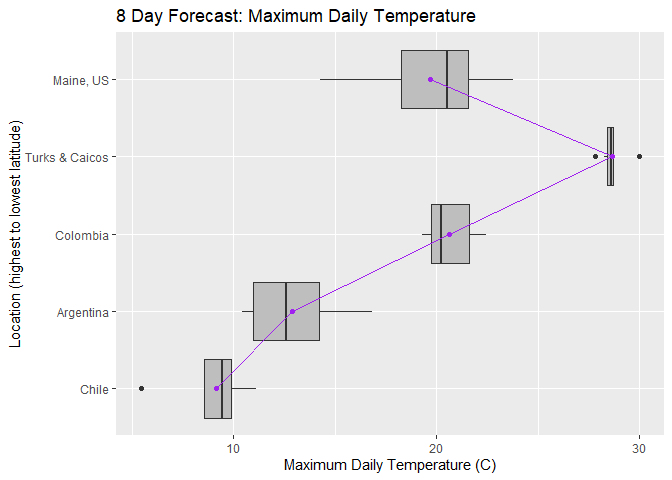
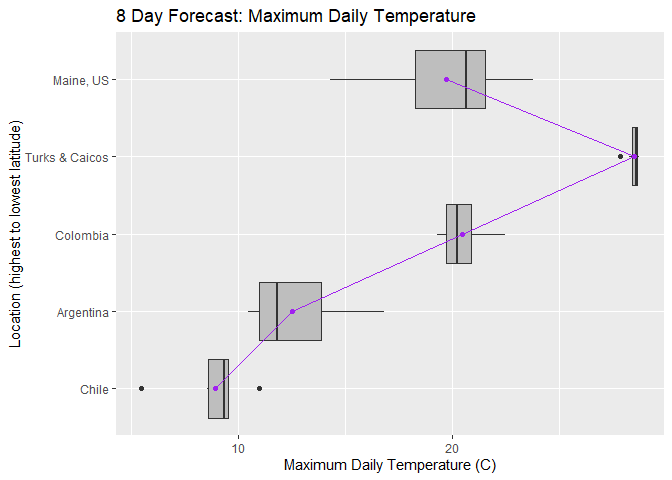
change size of scatter plot points

diff --git a/README.md b/README.md
@@ -1,4 +1,4 @@
-How to Access an API with an Example
+How to Access an API with RStudio
 ================
 Autumn Biggie
 10/3/2021
@@ -141,7 +141,7 @@ Maine.day
     ## 7 1634054400 1634035740 1634075955 1634062320 1634093100
     ## 8 1634140800 1634122215 1634162251 1634151780 1634183700
     ##   moon_phase temp.day temp.min temp.max temp.night temp.eve
-    ## 1       0.00    20.28     8.15    20.97      11.39    19.08
+    ## 1       0.00    20.28     8.15    21.21      11.39    17.64
     ## 2       0.05    20.74    10.10    21.70      11.85    15.33
     ## 3       0.08    20.94    10.19    21.51      12.06    13.24
     ## 4       0.12    13.13     5.57    14.29       5.95    11.59
@@ -150,7 +150,7 @@ Maine.day
     ## 7       0.25    18.57    11.40    20.13      14.01    17.54
     ## 8       0.27    21.71    14.65    23.80      16.05    19.63
     ##   temp.morn feels_like.day feels_like.night feels_like.eve
-    ## 1      8.15          19.72            10.99          18.98
+    ## 1      8.15          19.72            10.99          17.50
     ## 2     10.20          20.36            11.57          15.16
     ## 3     10.19          20.50            11.04          12.71
     ## 4      6.05          11.99             5.95          10.50
@@ -245,7 +245,7 @@ Maine.day1
     ## 7       0.25     1015       72     13.16       2.62      205
     ## 8       0.27     1011       78     17.61       4.02       60
     ##   wind_gust clouds  pop mintemp maxtemp
-    ## 1      3.00      3 0.00    8.15   20.97
+    ## 1      3.00      3 0.00    8.15   21.21
     ## 2      2.82     30 0.00   10.10   21.70
     ## 3      9.81      7 0.00   10.19   21.51
     ## 4      6.77     33 0.00    5.57   14.29
@@ -385,7 +385,7 @@ weather
     ## 39 02:37:00       0.23      997       66      2.48
     ## 40 03:30:00       0.25      986       96      1.86
     ##    wind_speed wind_deg wind_gust clouds  pop mintemp maxtemp
-    ## 1        1.86      352      3.00      3 0.00    8.15   20.97
+    ## 1        1.86      352      3.00      3 0.00    8.15   21.21
     ## 2        1.96      208      2.82     30 0.00   10.10   21.70
     ## 3        5.14      104      9.81      7 0.00   10.19   21.51
     ## 4        3.30      129      6.77     33 0.00    5.57   14.29
@@ -393,7 +393,7 @@ weather
     ## 6        2.81      185      5.03     76 0.00    7.84   19.05
     ## 7        2.62      205      5.55    100 0.09   11.40   20.13
     ## 8        4.02       60     10.16     12 0.82   14.65   23.80
-    ## 9       11.24      100     12.72      9 0.51   28.27   30.01
+    ## 9       11.24      100     12.72      9 0.51   28.27   28.63
     ## 10      10.16       85     11.01      4 0.80   27.88   28.65
     ## 11       7.82       85      8.31      3 0.64   27.95   28.48
     ## 12       8.31      113      8.67     10 0.88   27.89   28.59
@@ -401,7 +401,7 @@ weather
     ## 14       8.79      124      8.83     92 0.61   28.31   28.70
     ## 15      10.10      105     10.70     83 1.00   26.78   28.26
     ## 16       6.08       96      5.92     89 0.40   26.85   27.85
-    ## 17       2.47      127      4.56    100 0.78   12.91   21.57
+    ## 17       2.47      127      4.56    100 0.78   12.91   20.57
     ## 18       3.00      102      4.96     67 0.93   12.47   22.48
     ## 19       2.29      114      3.13     92 1.00   12.72   20.31
     ## 20       2.26       84      2.48     99 1.00   13.01   21.82
@@ -409,7 +409,7 @@ weather
     ## 22       2.11      103      3.20     91 1.00   13.36   19.30
     ## 23       2.06      106      2.67     96 1.00   14.09   19.83
     ## 24       1.98      107      2.79     75 1.00   13.39   20.15
-    ## 25      16.45      245     22.74    100 0.20    4.26   15.34
+    ## 25      16.45      245     22.74    100 0.20    4.26   12.34
     ## 26      12.70      241     18.69     99 0.00    2.57   11.16
     ## 27      14.31      237     19.03    100 0.00    5.28   13.86
     ## 28      13.66      318     21.25    100 0.00    4.39   16.83
@@ -417,7 +417,7 @@ weather
     ## 30      12.02       28     19.76     22 0.00    4.52   10.44
     ## 31       9.01       17     14.61     99 0.00    6.21   13.86
     ## 32      16.02      249     17.73      3 0.04    4.90   10.48
-    ## 33       9.95      241     16.42    100 0.68    2.04   11.11
+    ## 33       9.95      241     16.42    100 0.68    2.04    9.24
     ## 34       8.17      227     15.51    100 0.60    1.87    8.55
     ## 35      12.10      255     21.18     87 0.48    3.84    9.42
     ## 36      11.04      349     25.69    100 0.50    1.60    9.51
@@ -569,11 +569,11 @@ weather %>% group_by(location) %>% summarise(avghigh = mean(maxtemp), avglow = m
     ## # A tibble: 5 x 6
     ##   location       avghigh avglow sdhigh sdlow   IQR
     ##   <ord>            <dbl>  <dbl>  <dbl> <dbl> <dbl>
-    ## 1 Chile             9.14   2.78  1.77  1.66  1.30 
-    ## 2 Argentina        12.9    4.59  2.41  1.03  3.24 
-    ## 3 Colombia         20.6   13.2   1.19  0.511 1.90 
-    ## 4 Turks & Caicos   28.7   27.8   0.619 0.628 0.287
-    ## 5 Maine, US        19.7    9.22  3.15  3.01  3.28
+    ## 1 Chile             8.91   2.78  1.58  1.66  0.928
+    ## 2 Argentina        12.5    4.59  2.20  1.03  2.87 
+    ## 3 Colombia         20.5   13.2   1.12  0.511 1.15 
+    ## 4 Turks & Caicos   28.5   27.8   0.300 0.628 0.237
+    ## 5 Maine, US        19.7    9.22  3.17  3.01  3.28
 
 It’s clear that the average high and average low peak near the middle of
 the globe, with greater variation near the poles. These numbers could
@@ -782,7 +782,7 @@ weather
     ## 39     157       0.23      997       66      2.48       5.78
     ## 40     210       0.25      986       96      1.86       8.74
     ##    wind_deg wind_gust clouds  pop mintemp maxtemp
-    ## 1       352      3.00      3 0.00    8.15   20.97
+    ## 1       352      3.00      3 0.00    8.15   21.21
     ## 2       208      2.82     30 0.00   10.10   21.70
     ## 3       104      9.81      7 0.00   10.19   21.51
     ## 4       129      6.77     33 0.00    5.57   14.29
@@ -790,7 +790,7 @@ weather
     ## 6       185      5.03     76 0.00    7.84   19.05
     ## 7       205      5.55    100 0.09   11.40   20.13
     ## 8        60     10.16     12 0.82   14.65   23.80
-    ## 9       100     12.72      9 0.51   28.27   30.01
+    ## 9       100     12.72      9 0.51   28.27   28.63
     ## 10       85     11.01      4 0.80   27.88   28.65
     ## 11       85      8.31      3 0.64   27.95   28.48
     ## 12      113      8.67     10 0.88   27.89   28.59
@@ -798,7 +798,7 @@ weather
     ## 14      124      8.83     92 0.61   28.31   28.70
     ## 15      105     10.70     83 1.00   26.78   28.26
     ## 16       96      5.92     89 0.40   26.85   27.85
-    ## 17      127      4.56    100 0.78   12.91   21.57
+    ## 17      127      4.56    100 0.78   12.91   20.57
     ## 18      102      4.96     67 0.93   12.47   22.48
     ## 19      114      3.13     92 1.00   12.72   20.31
     ## 20       84      2.48     99 1.00   13.01   21.82
@@ -806,7 +806,7 @@ weather
     ## 22      103      3.20     91 1.00   13.36   19.30
     ## 23      106      2.67     96 1.00   14.09   19.83
     ## 24      107      2.79     75 1.00   13.39   20.15
-    ## 25      245     22.74    100 0.20    4.26   15.34
+    ## 25      245     22.74    100 0.20    4.26   12.34
     ## 26      241     18.69     99 0.00    2.57   11.16
     ## 27      237     19.03    100 0.00    5.28   13.86
     ## 28      318     21.25    100 0.00    4.39   16.83
@@ -814,7 +814,7 @@ weather
     ## 30       28     19.76     22 0.00    4.52   10.44
     ## 31       17     14.61     99 0.00    6.21   13.86
     ## 32      249     17.73      3 0.04    4.90   10.48
-    ## 33      241     16.42    100 0.68    2.04   11.11
+    ## 33      241     16.42    100 0.68    2.04    9.24
     ## 34      227     15.51    100 0.60    1.87    8.55
     ## 35      255     21.18     87 0.48    3.84    9.42
     ## 36      349     25.69    100 0.50    1.60    9.51
@@ -870,7 +870,7 @@ the course of 8 days in each location.
 ``` r
 g4 <- ggplot(weather, aes(x = Day, y = Sunrise))
 
-g4 + geom_point(aes(color = location)) + scale_color_discrete(name = "Location") + labs(title = "8 Day Forecast for Sunrise Time by Location", x = "Day of the Month", y = "Sunrise Time (minutes after 12am)")
+g4 + geom_point(aes(color = location, size = 1.5)) + scale_color_discrete(name = "Location") + labs(title = "8 Day Forecast for Sunrise Time by Location", x = "Day of the Month", y = "Sunrise Time (minutes after 12am)")
 ```
 
 ![](README_files/figure-gfm/sunrise%20scatterplot-1.png)<!-- -->
@@ -887,16 +887,16 @@ and daily pressure in the scatterplot below.
 ``` r
 g5 <- ggplot(weather, aes(x = maxtemp, y = pressure))
 
-g5 + geom_point(aes(color = location)) + geom_smooth(method = lm, formula = y~poly(x,2), color = "black") + scale_color_discrete(name = "Location") + labs(title = "8 Day Forecast: Maximum Daily Temperature vs. Daily Pressure", x = "Maximum Daily Temperature (C)", y = "Daily Pressure (millibars)")
+g5 + geom_point(aes(color = location, size = 1.5)) + geom_smooth(method = lm, formula = y~poly(x,2), color = "black") + scale_color_discrete(name = "Location") + labs(title = "8 Day Forecast: Maximum Daily Temperature vs. Daily Pressure", x = "Maximum Daily Temperature (C)", y = "Daily Pressure (millibars)")
 ```
 
 ![](README_files/figure-gfm/maxtemp%20vs%20pressure%20scatterplot-1.png)<!-- -->
 
-There seems to be a medium-strength, positive relationship between
-temperature and pressure. However, the data from the Turks and Caicos
-Islands appears to deviate slightly from the general trend, which is why
-I decided to fit a quadratic model. To fit a more accurate model, we may
-need to pull data from more locations from the API.
+There seems to be a weak positive relationship between temperature and
+pressure. However, the data from the Turks and Caicos Islands appears to
+deviate slightly from the general trend, which is why I decided to fit a
+quadratic model. To fit a more accurate model, we may need to pull data
+from more locations from the API.
 
 ## Final Thoughts
 
